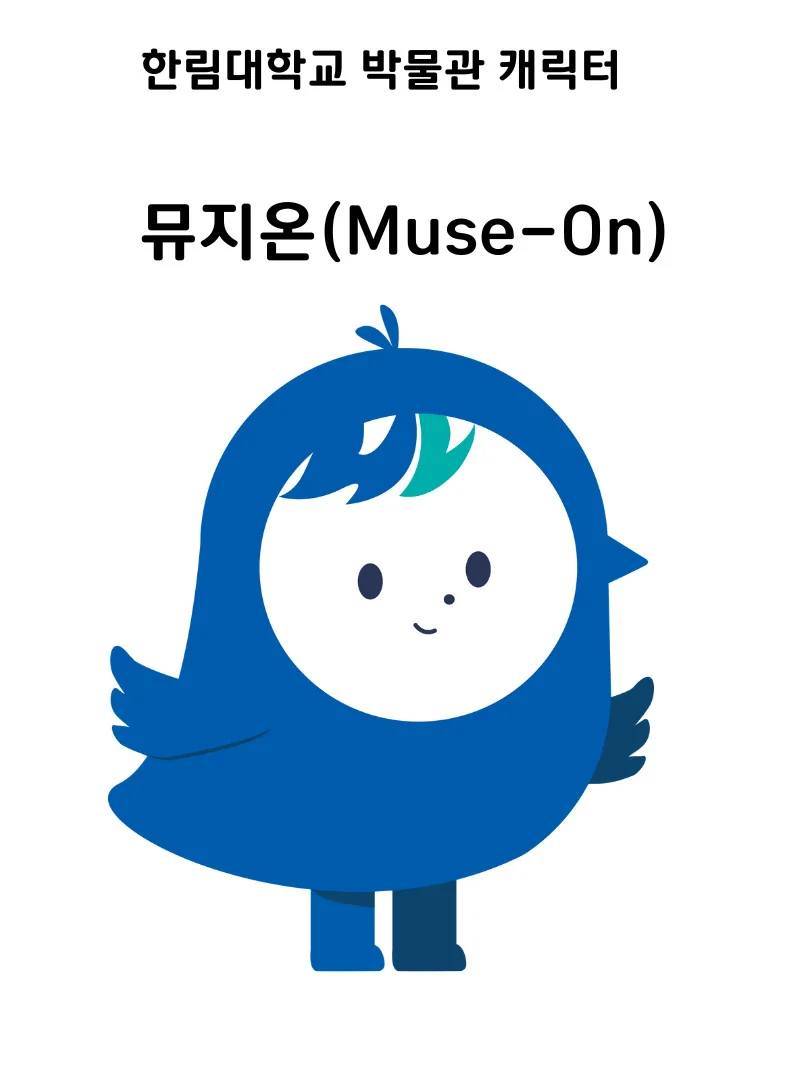
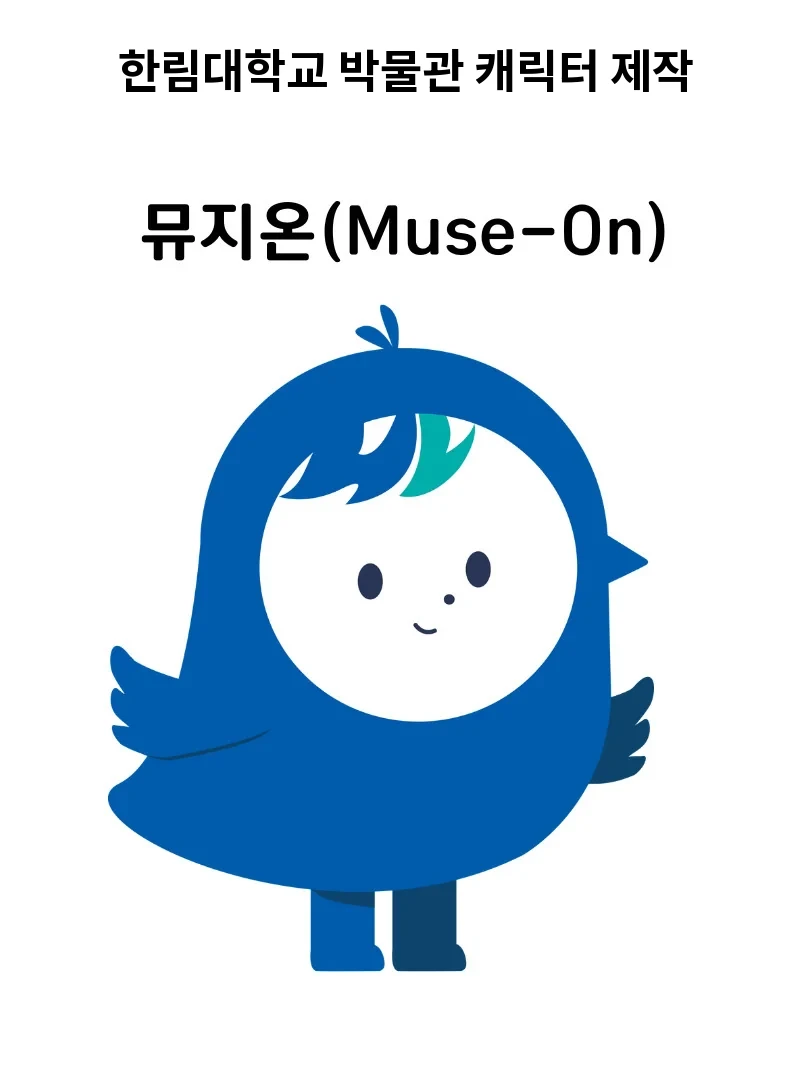
Red dashed wipe line under page titles; Muse-On card title

Changed region(s): [[0.1539, 0.0306, 0.8621, 0.0917]]

diff --git a/css/style.css b/css/style.css
@@ -188,6 +188,16 @@ a.entry:hover .t { color: var(--black); }
 .back { display: inline-flex; gap: 10px; font-family: var(--sans); font-size: 12px; font-weight: 700; margin: 40px 0 0 63px; }
 .back:hover { color: var(--red); }
 .cat-title { font-family: var(--impact); font-weight: 800; font-synthesis: none; font-size: 60px; text-align: center; padding: 30px 0 140px; }
+/* 제목 밑 빨간 점선: 제목 폭만큼, 나타날 때 왼쪽에서 오른쪽으로 닦이듯 그려짐 */
+.cat-title, .page-title { display: table; margin: 0 auto; }
+.cat-title::after, .page-title::after {
+  content: ''; display: block; margin-top: 14px; border-top: 4px dashed var(--red);
+  clip-path: inset(0 100% 0 0); transition: clip-path 1.1s cubic-bezier(.77, 0, .18, 1) .45s;
+}
+.cat-title.in::after, .page-title.in::after { clip-path: inset(0 0 0 0); }
+@media (prefers-reduced-motion: reduce) {
+  .cat-title::after, .page-title::after { clip-path: none; transition: none; }
+}
 .grid { display: grid; grid-template-columns: repeat(3, 259px); justify-content: space-between; gap: 100px 0; width: min(950px, 100% - 32px); margin: 0 auto; padding-bottom: 200px; }
 .card { display: block; text-align: center; }
 .card .thumb { width: 259px; aspect-ratio: 259 / 375; overflow: hidden; background: #f2f2f2; }
